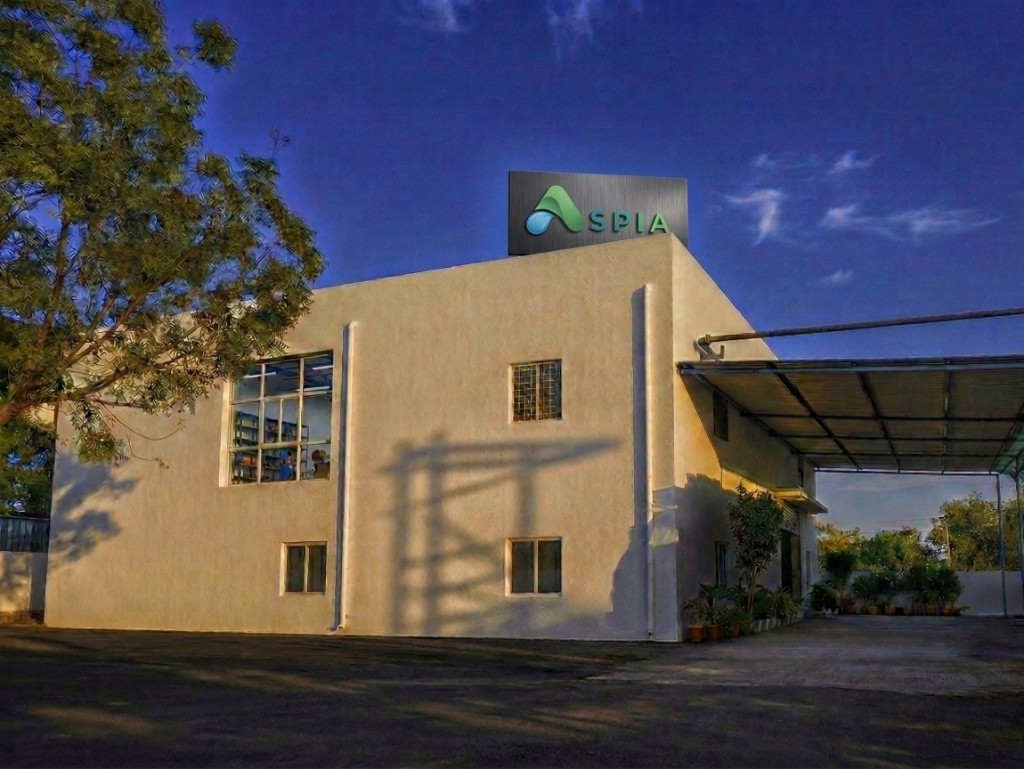
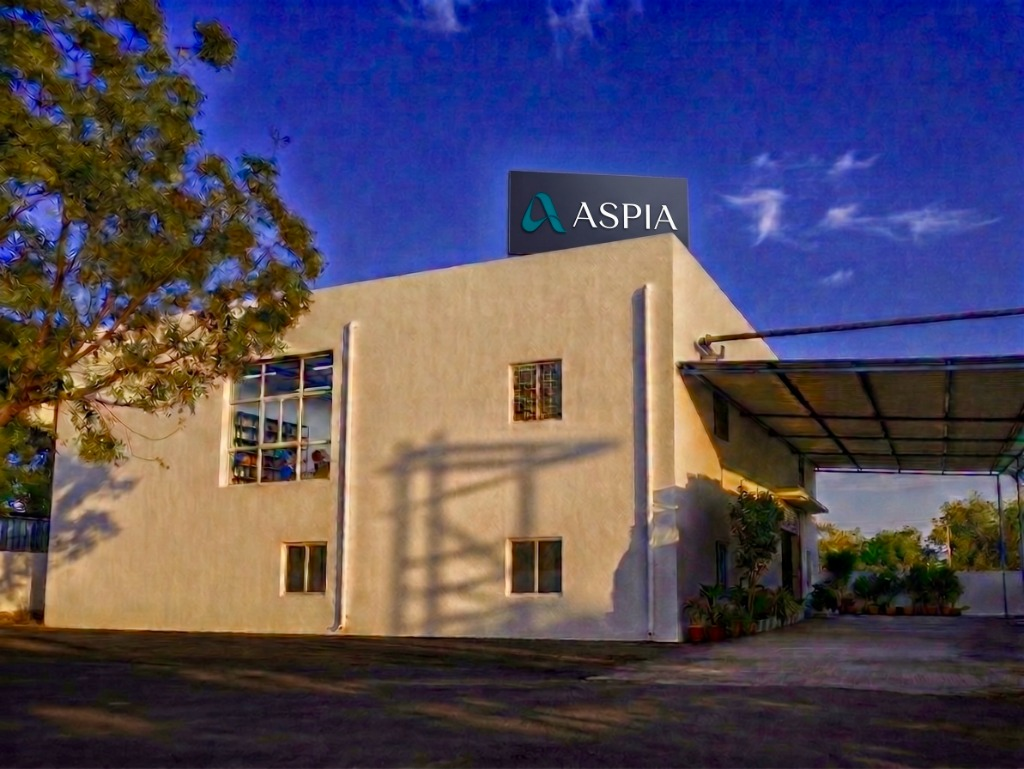
Update company name to Aspia Pharmaceuticals and apply new building image

diff --git a/src/components/sections/AboutSection.jsx b/src/components/sections/AboutSection.jsx
@@ -7,7 +7,7 @@ import Link from 'next/link';
 import { useStaggerReveal } from '@/lib/gsapUtils';
 
 const ABOUT_TEXT =
-  'ASPIA PARENTERALS PVT. LTD. (APPL), is a newly launched Company in the field of I.V. Fluids in the pharmaceutical industry having a promising track record, so far, of manufacturing a wide range of high quality Parenteral fluids in large volumes.';
+  'ASPIA PHARMACEUTICALS PVT. LTD. (APPL), is a newly launched Company in the field of I.V. Fluids in the pharmaceutical industry having a promising track record, so far, of manufacturing a wide range of high quality Parenteral fluids in large volumes.';
 
 const STRENGTH_TEXT =
   'ASPIA has embraced modern-age technology in its manufacturing lines. Our products are manufactured using highly sophisticated and automated FFS / BFS technology and also in glass bottles. With quality as honest as our foundation and with the most advanced technology, today we meet and exceed the current GMP (Good Manufacturing Practices) and GLP (Good Laboratory Practices) standards.';
@@ -95,7 +95,7 @@ export default function AboutSection({ detailed = false }) {
                   <Link href="/products" className="btn-primary">
                     View Product Range
                     <svg className="w-4 h-4" fill="none" viewBox="0 0 24 24" stroke="currentColor">
-                      <path strokeLinecap="round" strokeLinejoin="round" strokeWidth={2} d="M17 8l4 4m0 0l-4-4m4 4-4-4" />
+                      <path strokeLinecap="round" strokeLinejoin="round" strokeWidth={2} d="M13 5l7 7-7 7M5 12h15" />
                     </svg>
                   </Link>
                   <Link href="/contact" className="btn-outline">
@@ -221,7 +221,7 @@ export default function AboutSection({ detailed = false }) {
                 <Link href="/products" className="btn-primary">
                   View Offerings
                   <svg className="w-4 h-4" fill="none" viewBox="0 0 24 24" stroke="currentColor">
-                    <path strokeLinecap="round" strokeLinejoin="round" strokeWidth={2} d="M17 8l4 4m0 0l-4-4m4 4-4-4" />
+                    <path strokeLinecap="round" strokeLinejoin="round" strokeWidth={2} d="M13 5l7 7-7 7M5 12h15" />
                   </svg>
                 </Link>
               </div>

diff --git a/src/components/sections/CertificationsSection.jsx b/src/components/sections/CertificationsSection.jsx
@@ -26,6 +26,14 @@ export default function CertificationsSection() {
       category: 'Quality Management',
       image: '/certificates/iso-9001-2015.png',
       accent: 'from-[#eef6ff] via-white to-[#f8fbff]',
+    },
+    {
+      name: 'WHO-GMP',
+      description:
+        'World Health Organization Good Manufacturing Practices certification validating strict adherence to global pharmaceutical production, quality control, and safety protocols.',
+      category: 'GLOBAL COMPLIANCE',
+      image: '/certificates/who-gmp.png',
+      accent: 'from-[#f0f7ff] via-white to-[#f4f9ff]',
     }
   ];
 
@@ -70,7 +78,7 @@ export default function CertificationsSection() {
           </div>
         </div>
 
-        <div className="grid gap-8 lg:grid-cols-2">
+        <div className="grid gap-8 md:grid-cols-2 lg:grid-cols-3">
           {certifications.map((cert, index) => (
             <div key={cert.name} className="cert-item">
               <div className="panel-light h-full overflow-hidden">
@@ -92,7 +100,7 @@ export default function CertificationsSection() {
                         src={cert.image}
                         alt={cert.name}
                         fill
-                        className="object-contain"
+                        className={`object-contain ${cert.mixBlend ? 'mix-blend-multiply' : ''}`}
                         sizes="(min-width: 1024px) 320px, 100vw"
                       />
                     </div>
@@ -112,7 +120,7 @@ export default function CertificationsSection() {
 
         <div className="mt-16 grid gap-5 sm:grid-cols-3">
           {[
-            ['02', 'Verified Certifications'],
+            ['03', 'Verified Certifications'],
             ['GMP', 'Manufacturing Discipline'],
             ['ISO', 'Documented Quality Systems'],
           ].map(([value, label]) => (

diff --git a/src/components/layout/Footer.jsx b/src/components/layout/Footer.jsx
@@ -11,16 +11,16 @@ export default function Footer() {
           <div className="max-w-md">
             <Link href="/" className="inline-flex" aria-label="Aspia home">
               <Image
-                src="/aspia-logo-transparent-clean.png"
+                src="/a-world-class--ultra-minimalist-logo-design-for-a--2-2.svg"
                 alt="Aspia"
-                width={1002}
-                height={388}
-                className="h-auto w-[152px] drop-shadow-[0_12px_24px_rgba(0,0,0,0.28)] sm:w-[184px]"
+                width={958}
+                height={238}
+                className="h-auto w-[160px] drop-shadow-[0_12px_24px_rgba(0,0,0,0.28)] sm:w-[200px]"
               />
             </Link>
             <p className="mt-5 text-sm leading-7 text-slate-light">
-              Precision-engineered industrial exports for critical sectors worldwide,
-              with a clean footer that keeps focus on what matters.
+              Precision-engineered intravenous fluid manufacturing for critical healthcare sectors worldwide,
+              maintaining WHO-cGMP standards across all therapeutic infusions.
             </p>
           </div>
 
@@ -30,7 +30,7 @@ export default function Footer() {
         </div>
 
         <div className="mt-10 flex flex-col gap-3 border-t border-white/10 pt-6 text-xs uppercase tracking-[0.24em] text-slate-light/55 sm:flex-row sm:items-center sm:justify-between">
-          <span>Aspia Global Industrial Exports</span>
+          <span>Aspia Pharmaceuticals Pvt. Ltd. — IV Fluid Manufacturer & Exporter</span>
           <span>Built For Reliable Worldwide Delivery</span>
         </div>
       </div>

diff --git a/src/app/layout.js b/src/app/layout.js
@@ -12,20 +12,20 @@ const inter = Inter({
 });
 
 export const metadata = {
-  title: "Aspia Parenterals Pvt. Ltd. — IV Fluid Manufacturer & Exporter",
+  title: "Aspia Pharmaceuticals Pvt. Ltd. — IV Fluid Manufacturer & Exporter",
   description:
-    "Aspia Parenterals manufactures CGMP-certified intravenous fluids including IV nutrition, electrolyte solutions, and therapeutic infusions, exported to 30+ countries.",
+    "Aspia Pharmaceuticals manufactures CGMP-certified intravenous fluids including IV nutrition, electrolyte solutions, and therapeutic infusions, exported to 30+ countries.",
   openGraph: {
-    title: "Aspia Parenterals Pvt. Ltd. — IV Fluid Manufacturer",
+    title: "Aspia Pharmaceuticals Pvt. Ltd. — IV Fluid Manufacturer",
     description: "Manufacturer of CGMP-certified IV fluids, exported to 30+ countries.",
-    url: "https://aspiaparenterals.com",
-    siteName: "Aspia Parenterals",
-    images: [{ url: "/aspia-building.jpg", width: 1200, height: 630, alt: "Aspia Parenterals facility" }],
+    url: "https://aspiapharmaceuticals.com",
+    siteName: "Aspia Pharmaceuticals",
+    images: [{ url: "/aspia-building.jpg", width: 1200, height: 630, alt: "Aspia Pharmaceuticals facility" }],
     type: "website",
   },
   twitter: {
     card: "summary_large_image",
-    title: "Aspia Parenterals Pvt. Ltd.",
+    title: "Aspia Pharmaceuticals Pvt. Ltd.",
     description: "CGMP-certified IV fluid manufacturer and global exporter.",
     images: ["/aspia-building.jpg"],
   },

diff --git a/src/components/sections/Hero.jsx b/src/components/sections/Hero.jsx
@@ -50,7 +50,7 @@ export default function Hero() {
             className="hero-content mt-8 max-w-3xl text-lg leading-relaxed text-white md:text-[1.55rem]"
             style={{ textShadow: '0 2px 16px rgba(10, 22, 40, 0.45)' }}
           >
-            ASPIA Parenterals Pvt. Ltd. manufactures high-quality parenteral fluids in
+            ASPIA Pharmaceuticals Pvt. Ltd. manufactures high-quality parenteral fluids in
             large volumes with modern production lines, automated technology, and a
             quality-first approach built for dependable healthcare supply.
           </p>
@@ -58,7 +58,7 @@ export default function Hero() {
             <Link href="/products" className="btn-primary">
               Explore Product Range
               <svg className="w-4 h-4" fill="none" viewBox="0 0 24 24" stroke="currentColor">
-                <path strokeLinecap="round" strokeLinejoin="round" strokeWidth={2} d="M17 8l4 4m0 0l-4-4m4 4l-4-4" />
+                <path strokeLinecap="round" strokeLinejoin="round" strokeWidth={2} d="M13 5l7 7-7 7M5 12h15" />
               </svg>
             </Link>
             <Link

diff --git a/get_bbox.js b/get_bbox.js
@@ -1,0 +1,22 @@
+const fs = require('fs');
+const svg = fs.readFileSync('public/a-world-class--ultra-minimalist-logo-design-for-a--2-2.svg', 'utf8');
+const paths = svg.match(/d="([^"]+)"/g).map(s => s.slice(3, -1));
+let minX = Infinity, minY = Infinity, maxX = -Infinity, maxY = -Infinity;
+
+paths.forEach(p => {
+  // Regex to match any number including decimals
+  const matches = p.match(/-?[0-9]*\.?[0-9]+/g);
+  if (matches) {
+    for (let i = 0; i < matches.length; i += 2) {
+      const x = parseFloat(matches[i]);
+      const y = parseFloat(matches[i+1]);
+      if (x < minX) minX = x;
+      if (x > maxX) maxX = x;
+      if (y < minY) minY = y;
+      if (y > maxY) maxY = y;
+    }
+  }
+});
+console.log(`Min X: ${minX}, Min Y: ${minY}`);
+console.log(`Max X: ${maxX}, Max Y: ${maxY}`);
+console.log(`ViewBox: ${Math.floor(minX)} ${Math.floor(minY)} ${Math.ceil(maxX - minX)} ${Math.ceil(maxY - minY)}`);

diff --git a/src/components/layout/Navbar.jsx b/src/components/layout/Navbar.jsx
@@ -45,12 +45,12 @@ export default function Navbar() {
       <nav className="max-w-7xl mx-auto px-6 lg:px-12 flex items-center justify-between h-20">
         <Link href="/" className="group flex items-center" aria-label="Aspia home">
           <Image
-            src="/aspia-logo-transparent-clean.png"
+            src="/a-world-class--ultra-minimalist-logo-design-for-a--2-2.svg"
             alt="Aspia"
-            width={1002}
-            height={388}
+            width={958}
+            height={238}
             priority
-            className="h-auto w-[132px] drop-shadow-[0_10px_24px_rgba(0,0,0,0.28)] transition-transform duration-300 group-hover:scale-[1.02] sm:w-[156px] lg:w-[188px]"
+            className="h-auto w-[140px] drop-shadow-[0_10px_24px_rgba(0,0,0,0.28)] transition-transform duration-300 group-hover:scale-[1.02] sm:w-[160px] lg:w-[180px]"
           />
         </Link>
 

diff --git a/src/components/layout/SplashScreen.jsx b/src/components/layout/SplashScreen.jsx
@@ -43,12 +43,12 @@ export default function SplashScreen() {
     >
       <div className="flex flex-col items-center justify-center gap-8 px-6">
         <Image
-              src="/aspia-logo-transparent-clean.png"
+          src="/a-world-class--ultra-minimalist-logo-design-for-a--2-2.svg"
           alt="Aspia"
-          width={1002}
-          height={388}
+          width={958}
+          height={238}
           priority
-          className="animate-splash-logo-fade h-[160px] w-auto drop-shadow-[0_18px_36px_rgba(0,0,0,0.28)]"
+          className="animate-splash-logo-fade h-auto w-[240px] drop-shadow-[0_18px_36px_rgba(0,0,0,0.28)] md:w-[320px]"
         />
 
         <div className="h-[2px] w-44 overflow-hidden rounded-full bg-white/10">

diff --git a/src/app/contact/page.js b/src/app/contact/page.js
@@ -1,9 +1,9 @@
 import ContactForm from '@/components/sections/ContactForm';
 
 export const metadata = {
-  title: "Contact Aspia Parenterals — Enquiries & Partnerships",
+  title: "Contact Aspia Pharmaceuticals — Enquiries & Partnerships",
   description:
-    "Reach out to Aspia Parenterals for product enquiries, export partnerships, procurement documentation, or general business coordination.",
+    "Reach out to Aspia Pharmaceuticals for product enquiries, export partnerships, procurement documentation, or general business coordination.",
 };
 
 export default function Contact() {

diff --git a/src/app/about/page.js b/src/app/about/page.js
@@ -1,9 +1,9 @@
 import AboutSection from '@/components/sections/AboutSection';
 
 export const metadata = {
-  title: "About Aspia Parenterals — CGMP IV Fluid Manufacturer",
+  title: "About Aspia Pharmaceuticals — CGMP IV Fluid Manufacturer",
   description:
-    "Learn about Aspia Parenterals' manufacturing capabilities, sterile production technology, quality certifications, and global export footprint.",
+    "Learn about Aspia Pharmaceuticals' manufacturing capabilities, sterile production technology, quality certifications, and global export footprint.",
 };
 
 
